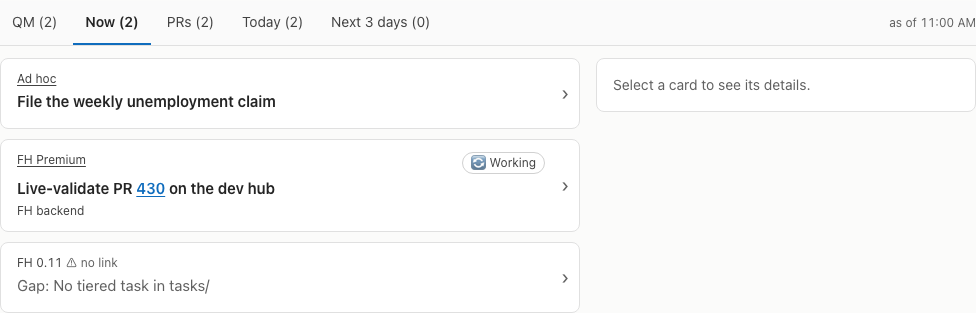
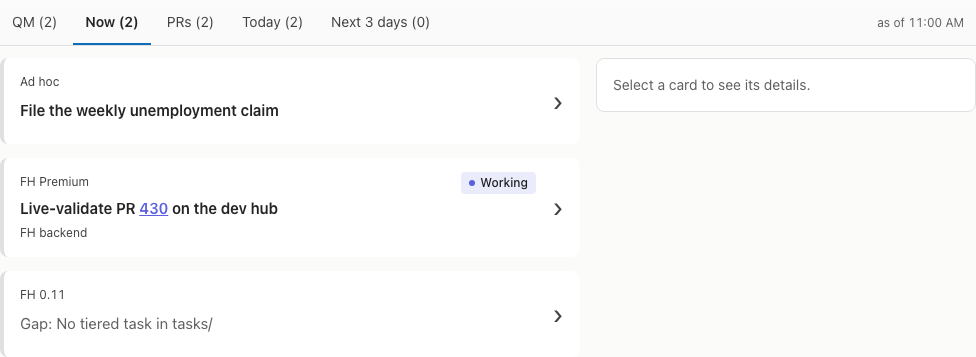
fix(priorities-tables): Centre a larger card chevron, pad the stamp, drop the card project link

diff --git a/web/src/ui/ui.css b/web/src/ui/ui.css
@@ -4,23 +4,25 @@
 
 /* Card: the whole card selects; links and tools sit above the stretched target. @req FR:ui-kit/card */
 .ui-cards { list-style: none; margin: 0; padding: 0; display: flex; flex-direction: column; gap: 14px; }
-.ui-card { position: relative; display: grid; grid-template-columns: minmax(0, 1fr) auto; grid-template-areas: "top tools" "open tools"; gap: 6px 8px; padding: 14px 14px 14px 16px; border-radius: var(--fl-r-xl); border-left: 4px solid var(--ui-edge, var(--line)); background: var(--ui-soft, var(--panel)); color: var(--ui-ink, var(--ink)); transition: background var(--fl-fast) var(--fl-ease), box-shadow var(--fl-fast); }
+.ui-card { position: relative; display: grid; grid-template-columns: minmax(0, 1fr) auto; grid-template-areas: "top tools" "open tools"; gap: 6px 8px; padding: 14px 44px 14px 16px; border-radius: var(--fl-r-xl); border-left: 4px solid var(--ui-edge, var(--line)); background: var(--ui-soft, var(--panel)); color: var(--ui-ink, var(--ink)); transition: background var(--fl-fast) var(--fl-ease), box-shadow var(--fl-fast); }
 .ui-card.strong { background: var(--ui-strong, var(--ui-soft, var(--panel))); box-shadow: var(--fl-shadow4); }
 .ui-card[data-selected="true"] { outline: 2px solid var(--focus); outline-offset: 2px; }
 .ui-card-top { grid-area: top; display: flex; flex-wrap: wrap; align-items: center; gap: 4px 10px; min-width: 0; font-size: 12px; color: var(--ui-ink2, var(--ink2)); }
 .ui-card-top a { position: relative; z-index: 1; }
-.ui-card-open { grid-area: open; position: static; display: grid; grid-template-columns: minmax(0, 1fr) auto; grid-template-areas: "title chev" "sub chev"; gap: 4px 8px; align-items: center; min-height: 32px; padding: 0; border: 0; background: none; color: inherit; font: inherit; text-align: left; cursor: pointer; }
+.ui-card-open { grid-area: open; position: static; display: grid; grid-template-columns: minmax(0, 1fr); grid-template-areas: "title" "sub"; gap: 4px 8px; align-items: center; min-height: 32px; padding: 0; border: 0; background: none; color: inherit; font: inherit; text-align: left; cursor: pointer; }
 .ui-card-open::after { content: ''; position: absolute; inset: 0; border-radius: inherit; }
 .ui-card-open:focus-visible { outline: none; }
 .ui-card-open:focus-visible::after { outline: 2px solid var(--focus); outline-offset: 2px; border-radius: var(--fl-r-xl); }
 .ui-card:hover .ui-card-title { text-decoration: underline; }
 .ui-card-title { grid-area: title; font-size: 15px; font-weight: 600; line-height: 21px; overflow-wrap: anywhere; }
 .ui-card-sub { grid-area: sub; display: flex; flex-wrap: wrap; gap: 4px 12px; font-size: 12px; color: var(--ui-ink2, var(--ink2)); }
-.ui-card-chev { grid-area: chev; font-size: 20px; color: var(--ui-ink2, var(--ink2)); }
+/* The chevron: 28 px, in a 44 px column at the right edge, centred on the full card height (the card is its containing block). */
+.ui-card-chev { position: absolute; inset: 0 0 0 auto; width: 44px; display: flex; align-items: center; justify-content: center; font-size: 28px; line-height: 1; color: var(--ui-ink2, var(--ink2)); pointer-events: none; }
 /* With `label`: title and sub line outside the button, so their links stay links above the stretched target. */
-.ui-card-body { grid-area: open; display: grid; grid-template-columns: minmax(0, 1fr) auto; grid-template-areas: "title chev" "sub chev"; gap: 4px 8px; align-items: center; min-width: 0; }
+.ui-card-body { grid-area: open; display: grid; grid-template-columns: minmax(0, 1fr); grid-template-areas: "title" "sub"; gap: 4px 8px; align-items: center; min-width: 0; }
 .ui-card-body a { position: relative; z-index: 1; }
-.ui-card-open.ui-card-chev-btn { grid-area: chev; display: inline-flex; align-items: center; justify-content: center; min-width: 24px; }
+/* The button holds only the chevron: it takes no room of its own; its stretched target covers the card. */
+.ui-card-open.ui-card-chev-btn { grid-area: 1 / 1 / -1 / -1; display: block; }
 .ui-card-tools { grid-area: tools; position: relative; z-index: 1; display: flex; flex-direction: column; gap: 4px; align-items: center; }
 /* An open menu lifts its card's tools above the cards below. */
 .ui-card-tools:has(.ui-menu) { z-index: 30; }
@@ -70,7 +72,7 @@
 .ui-tab:hover { color: var(--fl-fg1); }
 .ui-tab[aria-selected="true"] { color: var(--fl-fg1); font-weight: 600; border-bottom-color: var(--fl-brand); }
 .ui-tab:focus-visible { outline: 2px solid var(--fl-focus); outline-offset: -2px; border-radius: var(--fl-r-sm); }
-.ui-tabbar-aside { flex: none; font-size: 12px; line-height: 16px; color: var(--fl-fg3); white-space: nowrap; }
+.ui-tabbar-aside { flex: none; padding-inline-end: var(--fl-s-m); font-size: 12px; line-height: 16px; color: var(--fl-fg3); white-space: nowrap; }
 
 /* Split view: list and detail side by side when wide; detail replaces the list when narrow. @req FR:ui-kit/split */
 .ui-split { display: block; }

diff --git a/web/e2e/priorities-tables.spec.ts b/web/e2e/priorities-tables.spec.ts
@@ -46,6 +46,8 @@ const shot = async (page: Page, name: string) => {
   await page.setViewportSize({ width: page.viewportSize()!.width, height: 1400 });
   await page.getByTestId('pri-tables').screenshot({ path: `e2e/screenshots/priorities-report-${name}.png` });
 };
+/** Narrow: the open detail hides the list; go back to it. */
+const back = async (page: Page) => { const b = page.getByRole('button', { name: '‹ Back' }); if (await b.count()) await b.click(); };
 /** Text outside links that still looks like a PR or issue ref. */
 const bareRefs = (page: Page) => page.getByTestId('pri-tables').evaluate((el) => [...el.querySelectorAll('.ui-card-title, .ui-card-top, .pri-d')].flatMap((c) => {
   const x = c.cloneNode(true) as HTMLElement;
@@ -84,15 +86,21 @@ test.describe('Priorities report', () => {
     }
     await page.getByTestId('pri-tab-now').click();
     const fh = cards(page, 'now').nth(1);
-    await expect(fh.getByRole('link', { name: 'FH Premium' })).toHaveAttribute('href', '#/list?project=allyte');
-    // no agent link on the card; it lives in the detail pane
+    // no project or agent link on the card; they live in the detail pane. @req FR:priorities-tables/web.card.project
+    await expect(fh.locator('.ui-card-top')).toHaveText('FH Premium');
+    expect(await fh.locator('.ui-card-top a').count()).toBe(0);
     expect(await fh.locator('.ui-card-sub a').count()).toBe(0);
     await expect(fh.getByRole('link', { name: '430' })).toHaveAttribute('href', U(430));
     const gap = cards(page, 'now').nth(2);
-    await expect(gap.locator('.ui-card-top')).toHaveText('FH 0.11 ⚠ no link');
+    await expect(gap.locator('.ui-card-top')).toHaveText('FH 0.11');
     expect(await gap.getByRole('link').count()).toBe(0);
+    await gap.getByRole('button', { name: 'Details: FH 0.11' }).click();
+    await expect(detail(page).getByRole('heading')).toHaveText('FH 0.11 ⚠ no link');
+    await back(page);
     await fh.getByRole('button', { name: 'Details: FH Premium' }).click();
+    await expect(detail(page).getByRole('link', { name: 'FH Premium' })).toHaveAttribute('href', '#/list?project=allyte');
     await expect(detail(page).getByRole('link', { name: 'FH backend' })).toHaveAttribute('href', 'claude://claude.ai/epitaxy/s1');
+    await back(page);
     await page.getByTestId('pri-tab-qm').click();
     await cards(page, 'qm').nth(1).getByRole('button').click();
     await expect(detail(page).getByRole('link', { name: 'qm-planner' })).toHaveAttribute('href', '#/agents?file=.claude%2Fagents%2Fqm-planner.md');
@@ -187,6 +195,24 @@ test.describe('Priorities report', () => {
     expect(await c.evaluate((el) => getComputedStyle(el).backgroundColor)).toBe(await c.evaluate((el) => { const p = document.createElement('div'); p.style.background = 'var(--fl-bg1)'; el.parentElement!.appendChild(p); const b = getComputedStyle(p).backgroundColor; p.remove(); return b; }));
     expect(await page.evaluate(() => document.documentElement.scrollWidth <= window.innerWidth)).toBe(true);
     if (info.project.name === 'mobile') for (const t of await page.getByRole('tab').all()) expect((await t.boundingBox())!.height).toBeGreaterThanOrEqual(44);
+  });
+
+  // @req FR:priorities-tables/web.card.open @req FR:priorities-tables/web.tabs.head @req FR:ui-kit/card @req FR:ui-kit/tabs
+  test('the chevron is large and centred on the card height; the stamp has space after it', async ({ page }) => {
+    await open(page, view(), '#/now?pri=now');
+    for (const c of await cards(page, 'now').all()) {
+      const [card, chev] = [(await c.boundingBox())!, (await c.locator('.ui-card-chev').boundingBox())!];
+      expect(Math.abs((chev.y + chev.height / 2) - (card.y + card.height / 2))).toBeLessThanOrEqual(1);
+      expect(chev.height).toBeGreaterThanOrEqual(card.height - 1);
+      expect(chev.width).toBeGreaterThanOrEqual(44);
+      expect(card.x + card.width - (chev.x + chev.width)).toBeLessThanOrEqual(1);
+      expect(await c.locator('.ui-card-chev').evaluate((el) => parseFloat(getComputedStyle(el).fontSize))).toBeGreaterThanOrEqual(28);
+      // the status chip stays clear of the chevron
+      const tools = await c.locator('.ui-card-tools').count() ? await c.locator('.ui-card-tools').boundingBox() : null;
+      if (tools) expect(tools.x + tools.width).toBeLessThanOrEqual(chev.x + 1);
+    }
+    const [bar, stamp] = [(await page.locator('.pri-head .ui-tabbar').boundingBox())!, (await page.getByTestId('pri-stamp').boundingBox())!];
+    expect(bar.x + bar.width - (stamp.x + stamp.width)).toBeGreaterThanOrEqual(12);
   });
 
   for (const scheme of ['light', 'dark'] as const) {

diff --git a/web/src/PrioritiesTables.tsx b/web/src/PrioritiesTables.tsx
@@ -1,9 +1,9 @@
 /**
  * Now's priorities report: tabs (QM, Now, PRs, Today, Next 3 days, each with its count of real rows) over a list of muted
- * cards and a detail pane, built from the shared components (`web/src/ui/`). The whole card opens its detail; the agent link lives in
+ * cards and a detail pane, built from the shared components (`web/src/ui/`). The whole card opens its detail; the project and agent links live in
  * the detail only. The stamp sits at the right end of the tab bar. The tab is kept in the hash.
  * @req FR:priorities-tables/web.place @req FR:priorities-tables/web.tabs @req FR:priorities-tables/web.tabs.count @req FR:priorities-tables/web.tabs.default
- * @req FR:priorities-tables/web.tabs.hash @req FR:priorities-tables/web.tabs.head @req FR:priorities-tables/web.table @req FR:priorities-tables/web.table.line
+ * @req FR:priorities-tables/web.card.project @req FR:priorities-tables/web.tabs.hash @req FR:priorities-tables/web.tabs.head @req FR:priorities-tables/web.table @req FR:priorities-tables/web.table.line
  * @req FR:priorities-tables/web.table.gap @req FR:priorities-tables/web.table.empty @req FR:priorities-tables/web.links @req FR:priorities-tables/web.live @req FR:priorities-tables/web.live.absent
  * @req NFR:priorities-tables/a11y.axe @req NFR:priorities-tables/a11y.tokens @req NFR:priorities-tables/a11y.keys @req NFR:priorities-tables/a11y.target @req NFR:priorities-tables/a11y.mobile
  */
@@ -117,7 +117,7 @@ export function PrioritiesTables({ v }: { v: PrioritiesView }) {
         )))
         : (!n ? <Only text="Nothing here" /> : s.t.rows.map((r, i) => (
           <SelectCard key={`${r.id}:${r.ref ?? r.project}`} class={`pri-card${r.gap ? ' pri-gap' : ''}`} label={`Details: ${r.project}`} selected={at === i} onSelect={() => setSel(i)}
-            top={<><LinkOr href={projectHref(r.file)} text={r.project} />{r.stale && <span class="pri-stale"> stale</span>}</>}
+            top={<>{r.project}{r.stale && <span class="pri-stale"> stale</span>}</>}
             tools={r.status ? <Status s={r.status} /> : undefined}
             title={r.gap ? <span class="pri-muted">{actionText(r)}</span> : <Rich text={r.action} />}
             sub={<AgentName a={r.agent} more={0} />} />

diff --git a/.xe/features/priorities-tables/spec.md b/.xe/features/priorities-tables/spec.md
@@ -144,21 +144,22 @@ Owner needs the report on the Now page so that he sees it without a new screen.
   - **FR:web.tabs.default** (P1): The first tab shown MUST be QM when QM is a priority today, else Now.
   - **FR:web.tabs.hash** (P1): The chosen tab MUST be kept in the URL hash (`#/now?pri=prs`) and restored on load.
   - **FR:web.tabs.keys** (P1): Tabs MUST follow the ARIA tabs pattern: arrow keys, Home and End move between tabs.
-  - **FR:web.tabs.head** (P1): The stamp `as of <time>` (`, stale` when stale) of the chosen tab MUST sit small at the right end of the tab bar, and the bar MUST stay in view on scroll, with the time in the report's configured time zone.
+  - **FR:web.tabs.head** (P1): The stamp `as of <time>` (`, stale` when stale) of the chosen tab MUST sit small at the right end of the tab bar with space after it, and the bar MUST stay in view on scroll, with the time in the report's configured time zone.
 - **FR:web.kit** (P1): The report MUST be built from the shared components (`FR:ui-kit`, `web/src/ui/`: `Tabs`, `SelectCard`, `StatusChip`, `SplitView`, `useWide`), which the PR page also uses (`.xe/standards/ui.md`).
 - **FR:web.table** (P1): Each row MUST be a muted card: project and status on line 1, next action on line 2, agent on line 3. A PR card MUST show PR and Time on line 1, the next action on line 2 and the agent on line 3.
   - **FR:web.table.line** (P1): Each line MUST show one line and end a cut line with `…`.
   - **FR:web.status.chip** (P1): Status MUST be a `StatusChip` (`FR:ui-kit/chip`: a dot and one word on a tint); a row with no agent MUST show no chip.
   - **FR:web.card.agent** (P1): The card MUST show the agent name as plain text, with no added emoji and no link.
-  - **FR:web.card.open** (P1): The whole card MUST open its detail (one target, ending in `›`); links on the card MUST stay links.
+  - **FR:web.card.project** (P1): The card MUST show the project as plain text, with no link.
+  - **FR:web.card.open** (P1): The whole card MUST open its detail (one target, ending in a `›` centred on the card height); links on the card MUST stay links.
 - **FR:web.detail** (P1): The detail pane MUST show the project (linked), status chip, full next action (linked refs), agent (linked) with `+ N more on this goal`, source `path:line` and the stamp. Wide (900 px or more) it MUST sit beside the list; narrow it MUST replace the list, with Back.
   - **FR:web.table.gap** (P1): A gap row MUST show its action in muted text with the word `Gap:` first.
   - **FR:web.table.empty** (P1): An empty tab MUST show one card `Nothing here`.
 - **FR:web.links** (P1): Every row MUST link its targets.
-  - **FR:web.links.project** (P1): The project MUST link to its project page (`#/list?project=<file>`).
+  - **FR:web.links.project** (P1): In the detail pane, the project MUST link to its project page (`#/list?project=<file>`).
   - **FR:web.links.agent** (P1): In the detail pane, the agent MUST link to its session, else to its agent file in the Agents view.
   - **FR:web.links.refs** (P1): Each PR, issue and URL in the action MUST be a link; no bare `#12` or `PR 12` MUST show.
-  - **FR:web.links.gap** (P1): A project or agent with no link target MUST show the gap marker `⚠ no link`, never plain text alone.
+  - **FR:web.links.gap** (P1): In the detail pane, a project or agent with no link target MUST show the gap marker `⚠ no link`, never plain text alone.
   - **FR:web.links.none** (P1): `--` MUST be plain text.
 - **FR:web.live** (P1): Now MUST read `GET /priorities` on load, on each live change and every 60 s while visible.
   - **FR:web.live.absent** (P2): Now MUST hide the report when `GET /priorities` answers 404.

diff --git a/.xe/features/ui-kit/spec.md b/.xe/features/ui-kit/spec.md
@@ -23,7 +23,7 @@ The owner needs every list view to look and act the same so that he reads a PR, 
 
 ### FR:card: Selectable card
 
-- **FR:card** (P1): `SelectCard` is one list item: an optional top line (links, flags, chips), a title, an optional sub line, an optional tools column, and a chevron (`›`). One button covers the card; a tap or click anywhere that is not a link or a tool selects it, and Enter or Space on it does the same. Links and tools sit above it. `selected` sets `aria-current` and a focus-colored outline. `sr` is text read after the title by assistive tech only. With `label`, the title and sub line sit outside the button, so links in them stay links, and the button (the chevron, stretched over the card) is named `label`. A view sets the tone with the CSS variables `--ui-edge`, `--ui-soft`, `--ui-strong`, `--ui-ink`, `--ui-ink2`, and the class `strong`. Cards in a `ui-cards` list have 14 px between them and 14 px padding inside
+- **FR:card** (P1): `SelectCard` is one list item: an optional top line (links, flags, chips), a title, an optional sub line, an optional tools column, and a chevron (`›`). The chevron is 28 px, in a 44 px column at the right edge, centred on the full card height. One button covers the card; a tap or click anywhere that is not a link or a tool selects it, and Enter or Space on it does the same. Links and tools sit above it. `selected` sets `aria-current` and a focus-colored outline. `sr` is text read after the title by assistive tech only. With `label`, the title and sub line sit outside the button, so links in them stay links, and the button (the chevron, stretched over the card) is named `label`. A view sets the tone with the CSS variables `--ui-edge`, `--ui-soft`, `--ui-strong`, `--ui-ink`, `--ui-ink2`, and the class `strong`. Cards in a `ui-cards` list have 14 px between them and 14 px padding inside
 
 ### FR:flag: Flag
 
@@ -43,7 +43,7 @@ The owner needs every list view to look and act the same so that he reads a PR, 
 
 ### FR:tabs: Tabs
 
-- **FR:tabs** (P1): `Tabs` is a tab bar (ARIA tabs pattern: one selected tab with `tabIndex` 0, arrow keys, Home and End pick and focus). An optional `aside` sits small at the right end of the bar
+- **FR:tabs** (P1): `Tabs` is a tab bar (ARIA tabs pattern: one selected tab with `tabIndex` 0, arrow keys, Home and End pick and focus). An optional `aside` sits small at the right end of the bar, with 12 px of space after it
 
 ### FR:split: Split view
 
